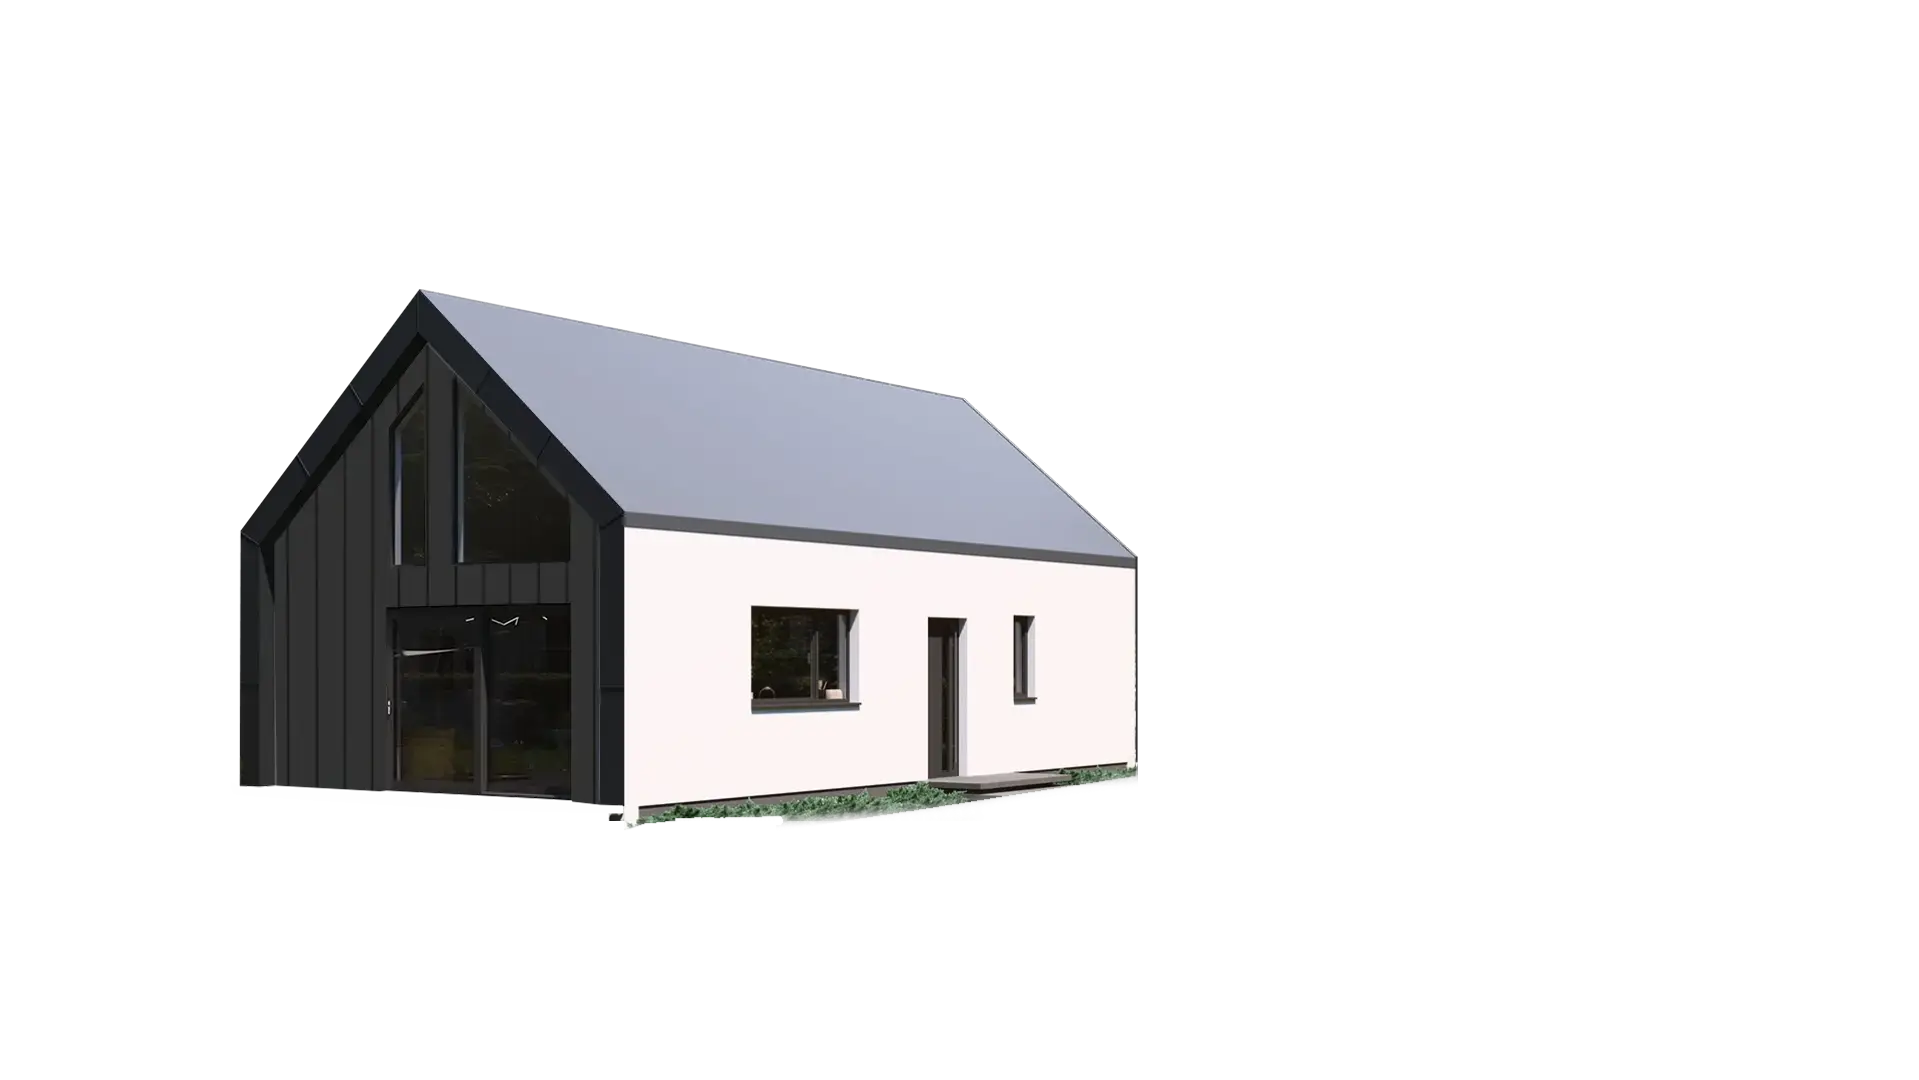
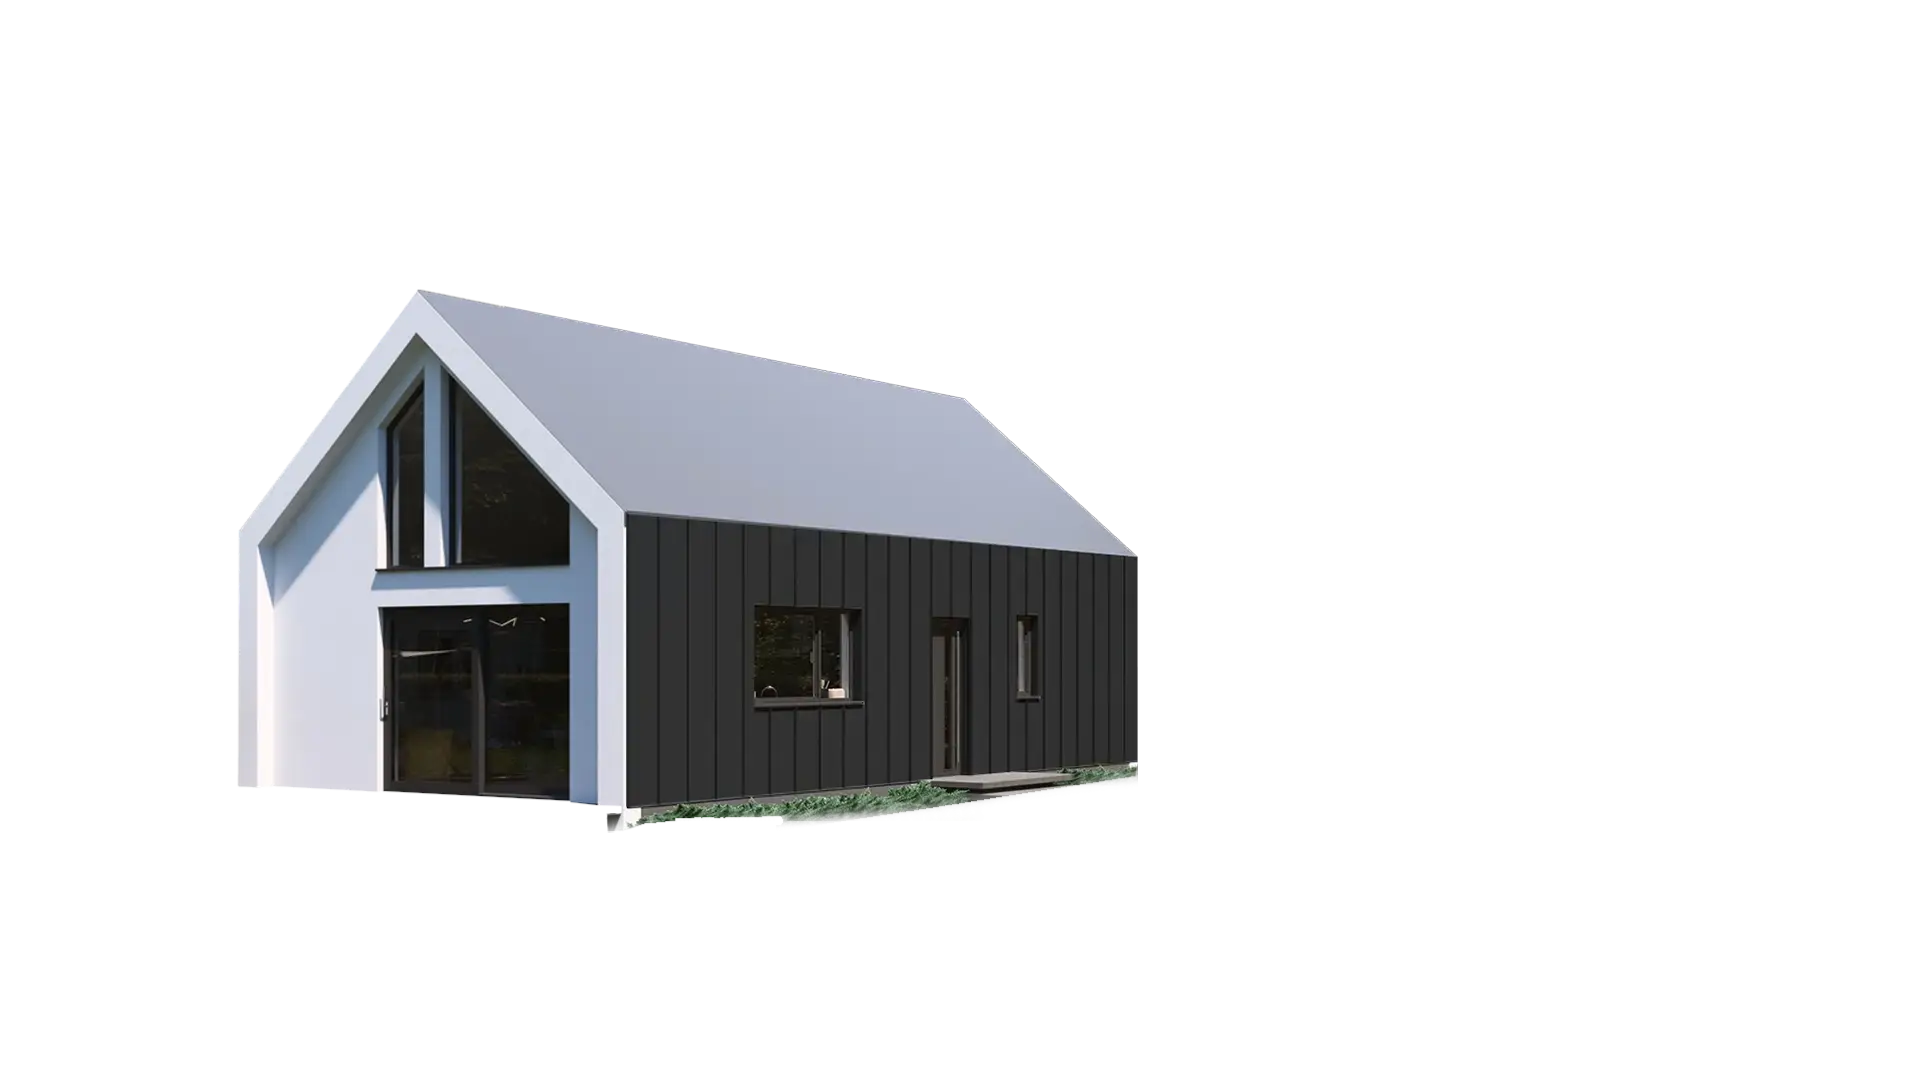
ffdsa

Changed region(s): [[0.123, 0.275, 0.6149, 0.7639]]

diff --git a/src/utils/houseConfigs.js b/src/utils/houseConfigs.js
@@ -129,13 +129,7 @@ import finishD126DarkSlatsThumb from '../assets/konfigurator/thumbnails/Bez nazw
 import finishD126WhiteSlatsThumb from '../assets/konfigurator/thumbnails/bialelamele.png'
 import finishD126BlackSlatsThumb from '../assets/konfigurator/thumbnails/czarnelamele.png'
 
-import doorCustomThumb from '../assets/konfigurator/thumbnails/ah_drzwi_techniczne.webp'
-import door11S3Thumb from '../assets/konfigurator/thumbnails/kmt_11s3.webp'
-import doorP9Thumb from '../assets/konfigurator/thumbnails/kmt_perfekt_9.webp'
-import door14AThumb from '../assets/konfigurator/thumbnails/kmt_14a.webp'
 
-
-import finishD70RawThumb from '../assets/dom3/thumbnails/elewacja.jpg'
 import finishD70MetalSheetThumb from '../assets/dom3/thumbnails/blachanarabek.jpg'
 import finishD70PlasterMetalThumb from '../assets/dom3/thumbnails/tynkiblacha.jpg'
 import finishD70MineralPlasterThumb from '../assets/dom3/thumbnails/tynkmineralny.jpg'
@@ -148,6 +142,14 @@ import houseD70roofAnthracite from '../assets/dom3/dach/antracyt.webp'
 import houseD70roofGreen from '../assets/dom3/dach/ciemnyzielony.webp'
 import houseD70roofOrange from '../assets/dom3/dach/pomarancz.webp'
 import houseD70roofRed from '../assets/dom3/dach/czerwony.webp'
+
+import houseD70roofDachowkaAnthracite from '../assets/dom3/dachowka/antracyt.webp'
+import houseD70roofDachowkaGreen from '../assets/dom3/dachowka/ciemnyzielony.webp'
+import houseD70roofDachowkaRed from '../assets/dom3/dachowka/czerwony.webp'
+import houseD70roofDachowkaGray from '../assets/dom3/dachowka/szary.webp'
+import houseD70roofDachowkaOrange from '../assets/dom3/dachowka/pomarancz.webp'
+
+
 
 
 
@@ -170,14 +172,12 @@ import houseD70blindBlack from '../assets/dom3/rolety/antracyt.webp'
 import houseD70blindBrown from '../assets/dom3/rolety/orzech.webp'
 import houseD70blindOak from '../assets/dom3/rolety/dab.webp'
 
-import houseD70doorCustom from '../assets/dom3/drzwi/wlasne.webp'
-import houseD70door11S3 from '../assets/dom3/drzwi/kmt11s3.webp'
-import houseD70doorP9 from '../assets/dom3/drzwi/kmtperfect9.webp'
-import houseD70door14A from '../assets/dom3/drzwi/kmt14a.webp'
+
 
 
 import finishD115MineralPlaster from '../assets/dom2/tynk/elewacjabiala.webp'
 import finishD115MetalSheet from '../assets/dom2/tynk/blachanarabek.webp'
+import finishD115PlasterMetal from '../assets/dom2/tynk/tynkiblacha.webp'
 import finishD115Anthracite from '../assets/dom2/tynk/elewacjaantracyt.webp'
 
 import finishD115WhiteSlats from '../assets/dom2/tynk/lamelebiale.webp'
@@ -186,9 +186,15 @@ import finishD115Slats from '../assets/dom2/tynk/lamele.webp'
 import finishD115AnthraciteSlats from '../assets/dom2/tynk/lameleantracyt.webp'
 
 import houseD115roofAnthracite from '../assets/dom2/dach/antracyt.webp'
-import houseD115roofGreen from '../assets/dom2/dach/antracyt.webp'
+import houseD115roofGreen from '../assets/dom2/dach/ciemnyzielony.webp'
 import houseD115roofRed from '../assets/dom2/dach/czerwony.webp'
 import houseD115roofOrange from '../assets/dom2/dach/pomarancz.webp'
+
+import houseD115roofDachowkaAnthracite from '../assets/dom2/dachowka/antracyt.webp'
+import houseD115roofDachowkaGreen from '../assets/dom2/dachowka/ciemnyzielony.webp'
+import houseD115roofDachowkaRed from '../assets/dom2/dachowka/czerwony.webp'
+import houseD115roofDachowkaOrange from '../assets/dom2/dachowka/pomarancz.webp'
+import houseD115roofDachowkaGrey from '../assets/dom2/dachowka/szary.webp'
 
 import houseD115windowAnthracite from '../assets/dom2/okna/antracyt.webp'
 import houseD115windowGray from '../assets/dom2/okna/szary.webp'
@@ -224,16 +230,19 @@ import houseD126roofGreen from '../assets/konfigurator/dach/zielony.webp'
 import houseD126roofRed from '../assets/konfigurator/dach/czerwony.webp'
 import houseD126roofOrange from '../assets/konfigurator/dach/kremowy.webp'
 
+import houseD126roofDachowkaAnthracite from '../assets/konfigurator/dachowka/antracyt.webp'
+import houseD126roofDachowkaGreen from '../assets/konfigurator/dachowka/ciemnyzielony.webp'
+import houseD126roofDachowkaRed from '../assets/konfigurator/dachowka/czerwony.webp'
+import houseD126roofDachowkaOrange from '../assets/konfigurator/dachowka/pomaranczowy.webp'
+import houseD126roofDachowkaGray from '../assets/konfigurator/dachowka/szary.webp'
+
+
 import houseD126blindGray from '../assets/konfigurator/rolety/d126_r1_szary.webp'
 import houseD126blindWhite from '../assets/konfigurator/rolety/d126_r1_bialy.webp'
-import houseD126blindBlack from '../assets/konfigurator/rolety/rolety.webp'
+import houseD126blindBlack from '../assets/konfigurator/rolety/d126_r1_bialy.webp'
 import houseD126blindBrown from '../assets/konfigurator/rolety/d126_r1_orzech.webp'
 import houseD126blindOak from '../assets/konfigurator/rolety/d126_r1_dab.webp'
 
-import houseD126doorCustom from '../assets/konfigurator/drzwi/dzrwi0.webp'
-import houseD126door11S3 from '../assets/konfigurator/drzwi/dzrwi11s3.webp'
-import houseD126doorP9 from '../assets/konfigurator/drzwi/dzrwip9.webp'
-import houseD126door14A from '../assets/konfigurator/drzwi/dzrwi14a.webp'
 
 export const HOUSE_CONFIGS = {
   d70: {
@@ -270,24 +279,23 @@ export const HOUSE_CONFIGS = {
         { id: 1, name: 'Blacha na rąbek', thumb: blacha, image: houseD70Roof, price: 68000 }
       ],
 
-            
-      kolorDachu: {
-        0: [ 
-          { id: 1, name: 'Szary', thumb: roofGrayThumb, image: houseD70Roof, price: 0 },
-          { id: 2, name: 'Antracyt', thumb: roofAnthraciteThumb, image: houseD70roofAnthracite, price: 0 },
-          { id: 3, name: 'Pomarańczowy', thumb: roofOrangeThumb, image: houseD70roofOrange, price: 0 },
-          { id: 4, name: 'Ciemny Zielony', thumb: roofGreenThumb, image: houseD70roofGreen, price: 0 },
-          { id: 5, name: 'Czerwony', thumb: roofRedThumb, image: houseD70roofRed, price: 0 }
-        ],
-        1: [ 
-          { id: 1, name: 'Szary', thumb: roofGrayThumb, image: houseD70Roof, price: 0 },
-          { id: 2, name: 'Antracyt', thumb: roofAnthraciteThumb, image: houseD70roofAnthracite, price: 0 },
-          { id: 3, name: 'Pomarańczowy', thumb: roofOrangeThumb, image: houseD70roofOrange, price: 0 },
-          { id: 4, name: 'Ciemny Zielony', thumb: roofGreenThumb, image: houseD70roofGreen, price: 0 },
-          { id: 5, name: 'Czerwony', thumb: roofRedThumb, image: houseD70roofRed, price: 0 }
-        ]
-      },
-
+// W HOUSE_CONFIGS.d70.options.kolorDachu popraw:
+kolorDachu: {
+  0: [ // Dachówka ceramiczna - upewnij się że używasz obrazów dachówki
+    { id: 1, name: 'Szary', thumb: roofGrayThumb, image: houseD70roofDachowkaGray, price: 0 },
+    { id: 2, name: 'Antracyt', thumb: roofAnthraciteThumb, image: houseD70roofDachowkaAnthracite, price: 0 },
+    { id: 3, name: 'Pomarańczowy', thumb: roofOrangeThumb, image: houseD70roofDachowkaOrange, price: 0 },
+    { id: 4, name: 'Ciemny Zielony', thumb: roofGreenThumb, image: houseD70roofDachowkaGreen, price: 0 },
+    { id: 5, name: 'Czerwony', thumb: roofRedThumb, image: houseD70roofDachowkaRed, price: 0 }
+  ],
+  1: [ // Blacha na rąbek - upewnij się że używasz obrazów blachy
+    { id: 1, name: 'Szary', thumb: roofGrayThumb, image: houseD70Roof, price: 0 }, // houseD70Roof to domyślny dla blachy
+    { id: 2, name: 'Antracyt', thumb: roofAnthraciteThumb, image: houseD70roofAnthracite, price: 0 },
+    { id: 3, name: 'Pomarańczowy', thumb: roofOrangeThumb, image: houseD70roofOrange, price: 0 },
+    { id: 4, name: 'Ciemny Zielony', thumb: roofGreenThumb, image: houseD70roofGreen, price: 0 },
+    { id: 5, name: 'Czerwony', thumb: roofRedThumb, image: houseD70roofRed, price: 0 }
+  ]
+},
       
       rolety: [
         { id: 1, name: 'Szare', thumb: blindGrayThumb, image: houseD70blindGray },
@@ -339,11 +347,12 @@ drzwi: {
       dach: houseD115Roof
     },
     options: {
-      tynk: [
-         { id: 1, name: 'Tynk mineralny', thumb: finishD115MineralPlasterThumb, image: finishD115MineralPlaster, hasColors: true },
-        { id: 2, name: 'Blacha na rąbek', thumb: finishD115MetalSheetThumb, image: finishD115MetalSheet },
-        { id: 3, name: 'Lamele', thumb: finishD115SlatsThumb, image: finishD115Slats, hasColors: true }
-      ],
+    tynk: [
+      { id: 1, name: 'Tynk mineralny', thumb: finishD115MineralPlasterThumb, image: finishD115MineralPlaster, hasColors: true },
+      { id: 2, name: 'Blacha na rąbek', thumb: finishD115MetalSheetThumb, image: finishD115MetalSheet },
+      { id: 3, name: 'Lamele', thumb: finishD115SlatsThumb, image: finishD115Slats, hasColors: true },
+      { id: 4, name: 'Tynk i blacha', thumb: finishD115MineralPlasterThumb, image: finishD115PlasterMetal } // POPRAWIONE: 'Image' -> 'image'
+    ],
       kolor: {
         1: [
           { id: 1, name: 'Biała', thumb: colorWhiteThumb, image: finishD115MineralPlaster },
@@ -358,20 +367,19 @@ drzwi: {
       },
 
       typDachu: [
-        { id: 0, name: 'Dachówka ceramiczna', thumb: dachowka, image: houseD126Roof, price: 77000 },
-        { id: 1, name: 'Blacha na rąbek', thumb: blacha, image: houseD126Roof, price: 68000 }
+        { id: 0, name: 'Dachówka ceramiczna', thumb: dachowka, image: houseD115Roof, price: 77000 },
+        { id: 1, name: 'Blacha na rąbek', thumb: blacha, image: houseD115Roof, price: 68000 }
       ],
 
-            
       kolorDachu: {
-        0: [ 
-          { id: 1, name: 'Szary', thumb: roofGrayThumb, image: houseD115Roof, price: 0 },
-          { id: 2, name: 'Antracyt', thumb: roofAnthraciteThumb, image: houseD115roofAnthracite, price: 0 },
-          { id: 3, name: 'Pomarańczowy', thumb: roofOrangeThumb, image: houseD115roofOrange, price: 0 },
-          { id: 4, name: 'Ciemny Zielony', thumb: roofGreenThumb, image: houseD115roofGreen, price: 0 },
-          { id: 5, name: 'Czerwony', thumb: roofRedThumb, image: houseD115roofRed, price: 0 }
+        0: [ // Dachówka ceramiczna
+          { id: 1, name: 'Szary', thumb: roofGrayThumb, image: houseD115roofDachowkaGrey, price: 0 },
+          { id: 2, name: 'Antracyt', thumb: roofAnthraciteThumb, image: houseD115roofDachowkaAnthracite, price: 0 },
+          { id: 3, name: 'Pomarańczowy', thumb: roofOrangeThumb, image: houseD115roofDachowkaOrange, price: 0 },
+          { id: 4, name: 'Ciemny Zielony', thumb: roofGreenThumb, image: houseD115roofDachowkaGreen, price: 0 },
+          { id: 5, name: 'Czerwony', thumb: roofRedThumb, image: houseD115roofDachowkaRed, price: 0 }
         ],
-        1: [ 
+        1: [ // Blacha na rąbek
           { id: 1, name: 'Szary', thumb: roofGrayThumb, image: houseD115Roof, price: 0 },
           { id: 2, name: 'Antracyt', thumb: roofAnthraciteThumb, image: houseD115roofAnthracite, price: 0 },
           { id: 3, name: 'Pomarańczowy', thumb: roofOrangeThumb, image: houseD115roofOrange, price: 0 },
@@ -379,7 +387,6 @@ drzwi: {
           { id: 5, name: 'Czerwony', thumb: roofRedThumb, image: houseD115roofRed, price: 0 }
         ]
       },
-
       
       rolety: [
         { id: 1, name: 'Szare', thumb: blindGrayThumb, image: houseD115blindGray },
@@ -452,21 +459,20 @@ drzwi: {
       },
 
       
-      typDachu: [
+     typDachu: [
         { id: 0, name: 'Dachówka ceramiczna', thumb: dachowka, image: houseD126Roof, price: 77000 },
         { id: 1, name: 'Blacha na rąbek', thumb: blacha, image: houseD126Roof, price: 68000 }
       ],
 
-      
       kolorDachu: {
-        0: [ 
-          { id: 1, name: 'Szary', thumb: roofGrayThumb, image: houseD126Roof, price: 0 },
-          { id: 2, name: 'Antracyt', thumb: roofAnthraciteThumb, image: houseD126roofAnthracite, price: 0 },
-          { id: 3, name: 'Pomarańczowy', thumb: roofOrangeThumb, image: houseD126roofOrange, price: 0 },
-          { id: 4, name: 'Ciemny Zielony', thumb: roofGreenThumb, image: houseD126roofGreen, price: 0 },
-          { id: 5, name: 'Czerwony', thumb: roofRedThumb, image: houseD126roofRed, price: 0 }
+        0: [ // Dachówka ceramiczna
+          { id: 1, name: 'Szary', thumb: roofGrayThumb, image: houseD126roofDachowkaGray, price: 0 },
+          { id: 2, name: 'Antracyt', thumb: roofAnthraciteThumb, image: houseD126roofDachowkaAnthracite, price: 0 },
+          { id: 3, name: 'Pomarańczowy', thumb: roofOrangeThumb, image: houseD126roofDachowkaOrange, price: 0 },
+          { id: 4, name: 'Ciemny Zielony', thumb: roofGreenThumb, image: houseD126roofDachowkaGreen, price: 0 },
+          { id: 5, name: 'Czerwony', thumb: roofRedThumb, image: houseD126roofDachowkaRed, price: 0 }
         ],
-        1: [ 
+        1: [ // Blacha na rąbek
           { id: 1, name: 'Szary', thumb: roofGrayThumb, image: houseD126Roof, price: 0 },
           { id: 2, name: 'Antracyt', thumb: roofAnthraciteThumb, image: houseD126roofAnthracite, price: 0 },
           { id: 3, name: 'Pomarańczowy', thumb: roofOrangeThumb, image: houseD126roofOrange, price: 0 },

diff --git a/src/components/HouseVisualization/HouseVisualization.jsx b/src/components/HouseVisualization/HouseVisualization.jsx
@@ -6,6 +6,10 @@ const HouseVisualization = ({ houseConfig, selections, onImagesLoad }) => {
 
   const preloadImage = (src) => {
     return new Promise((resolve, reject) => {
+      if (!src) {
+        resolve(null);
+        return;
+      }
       const img = new Image();
       img.src = src;
       img.onload = () => resolve(src);
@@ -28,9 +32,6 @@ const HouseVisualization = ({ houseConfig, selections, onImagesLoad }) => {
         // Overlay images
         if (houseConfig.overlayImages?.light) {
           imagesToLoad.push(preloadImage(houseConfig.overlayImages.light));
-        }
-        if (houseConfig.overlayImages?.dach) {
-          imagesToLoad.push(preloadImage(houseConfig.overlayImages.dach));
         }
         
         // Aktualnie wybrane elementy
@@ -89,7 +90,6 @@ const HouseVisualization = ({ houseConfig, selections, onImagesLoad }) => {
         option = colorOptions.find(opt => opt.id === id);
       }
     } else if (type === 'drzwi') {
-      // DODANA OBSŁUGA DRZWI
       const kolorDrzwi = selections.kolorDrzwi;
       const doorOptions = section[kolorDrzwi];
       if (doorOptions) {
@@ -121,6 +121,35 @@ const HouseVisualization = ({ houseConfig, selections, onImagesLoad }) => {
     );
   };
 
+  // NOWA FUNKCJA DO RENDEROWANIA DACHU
+  const renderRoofOverlay = () => {
+    const { typDachu, kolorDachu } = selections;
+    
+    if (typDachu === undefined || kolorDachu === undefined || kolorDachu === 0) {
+      return null;
+    }
+
+    const roofTypeOptions = houseConfig.options.kolorDachu?.[typDachu];
+    const selectedRoofColor = roofTypeOptions?.find(option => option.id === kolorDachu);
+    
+    if (selectedRoofColor && selectedRoofColor.image) {
+      return (
+        <div className="element-pickable dach">
+          <img 
+            src={selectedRoofColor.image} 
+            alt="Dach"
+            style={{ 
+              opacity: allImagesLoaded ? 1 : 0,
+              transition: 'opacity 0.3s ease-in-out'
+            }}
+          />
+        </div>
+      );
+    }
+    
+    return null;
+  };
+
   return (
     <div className="vis-overlay">
       {/* Base image */}
@@ -128,6 +157,7 @@ const HouseVisualization = ({ houseConfig, selections, onImagesLoad }) => {
         <img src={houseConfig.baseImage} alt="Base" />
       </div>
       
+      {/* Światło */}
       <div className='element-pickable light'>
         <img 
           src={houseConfig.overlayImages?.light} 
@@ -135,22 +165,19 @@ const HouseVisualization = ({ houseConfig, selections, onImagesLoad }) => {
           style={{ opacity: allImagesLoaded ? 1 : 0 }}
         />
       </div>
-      
-      <div className='element-pickable dach'>
-        <img 
-          src={houseConfig.overlayImages?.dach} 
-          alt="Dach" 
-          style={{ opacity: allImagesLoaded ? 1 : 0 }}
-        />
-      </div>
 
-      {/* POPRAWIONE RENDEROWANIE - DRZWI TERAZ SĄ OSTATNIE */}
-      {selections.typDachu && selections.typDachu !== 0 && selections.kolorDachu && selections.kolorDachu !== 0 && renderElement('kolorDachu', selections.kolorDachu, 'dach')}
-      {selections.roletyEnabled && selections.rolety && selections.rolety !== 0 && renderElement('rolety', selections.rolety)}
-      {selections.okna && selections.okna !== 0 && renderElement('okna', selections.okna)}
+      {/* Elewacja */}
       {selections.tynk && selections.tynk !== 0 && renderElement('tynk', selections.tynk)}
       {selections.kolor && selections.kolor !== 0 && renderElement('kolor', selections.kolor)}
-      {/* POPRAWIONE RENDEROWANIE DRZWI */}
+      
+      {/* Dach - TERAZ UŻYWAMY NOWEJ FUNKCJI */}
+      {renderRoofOverlay()}
+      
+      {/* Okna i rolety */}
+      {selections.okna && selections.okna !== 0 && renderElement('okna', selections.okna)}
+      {selections.roletyEnabled && selections.rolety && selections.rolety !== 0 && renderElement('rolety', selections.rolety)}
+      
+      {/* Drzwi - OSTATNIE, ABY BYŁY NA WIERZCHU */}
       {selections.kolorDrzwi && selections.kolorDrzwi !== 0 && selections.drzwi && selections.drzwi !== 0 && renderElement('drzwi', selections.drzwi)}
     </div>
   );

diff --git a/src/components/VisualConfigurator/VisualConfigurator.jsx b/src/components/VisualConfigurator/VisualConfigurator.jsx
@@ -21,16 +21,25 @@ export default function VisualConfigurator({onVisualPriceChange }) {
     return () => window.removeEventListener('resize', handleResize)
   }, [])
 
-  useEffect(() => {
-    const config = HOUSE_CONFIGS[id] || HOUSE_CONFIGS.default
-    setHouseConfig(config)
-    
-    const initialSelections = {}
-    Object.keys(config.options).forEach(section => {
+useEffect(() => {
+  const config = HOUSE_CONFIGS[id] || HOUSE_CONFIGS.default
+  setHouseConfig(config)
+  
+  const initialSelections = {}
+  Object.keys(config.options).forEach(section => {
+    if (section === 'typDachu') {
+      // Dla typu dachu ustaw pierwszą dostępną opcję
       initialSelections[section] = config.options[section][0]?.id || 0
-    })
-    setSelections(initialSelections)
-  }, [id])
+    } else if (section === 'kolorDachu') {
+      // Dla koloru dachu ustaw pierwszy kolor dla domyślnego typu dachu
+      const defaultRoofType = config.options.typDachu?.[0]?.id || 0
+      initialSelections[section] = config.options.kolorDachu?.[defaultRoofType]?.[0]?.id || 0
+    } else {
+      initialSelections[section] = config.options[section][0]?.id || 0
+    }
+  })
+  setSelections(initialSelections)
+}, [id])
 
   useEffect(() => {
     if (!houseConfig) return

diff --git a/src/components/ConfigPanel/ConfigPanel.jsx b/src/components/ConfigPanel/ConfigPanel.jsx
@@ -9,9 +9,9 @@ const ConfigPanel = ({ houseConfig, selections, onSelectionChange }) => {
     return tynkOption?.hasColors && houseConfig.options.kolor
   }
 
-  const shouldShowKolorDachuSection = () => {
-    return selections.typDachu && selections.typDachu !== 0 && houseConfig.options.kolorDachu
-  }
+const shouldShowKolorDachuSection = () => {
+  return selections.typDachu !== undefined && selections.typDachu !== null && houseConfig.options.kolorDachu
+}
 
   const shouldShowDrzwiSection = () => {
     return selections.kolorDrzwi && selections.kolorDrzwi !== 0 && houseConfig.options.drzwi
